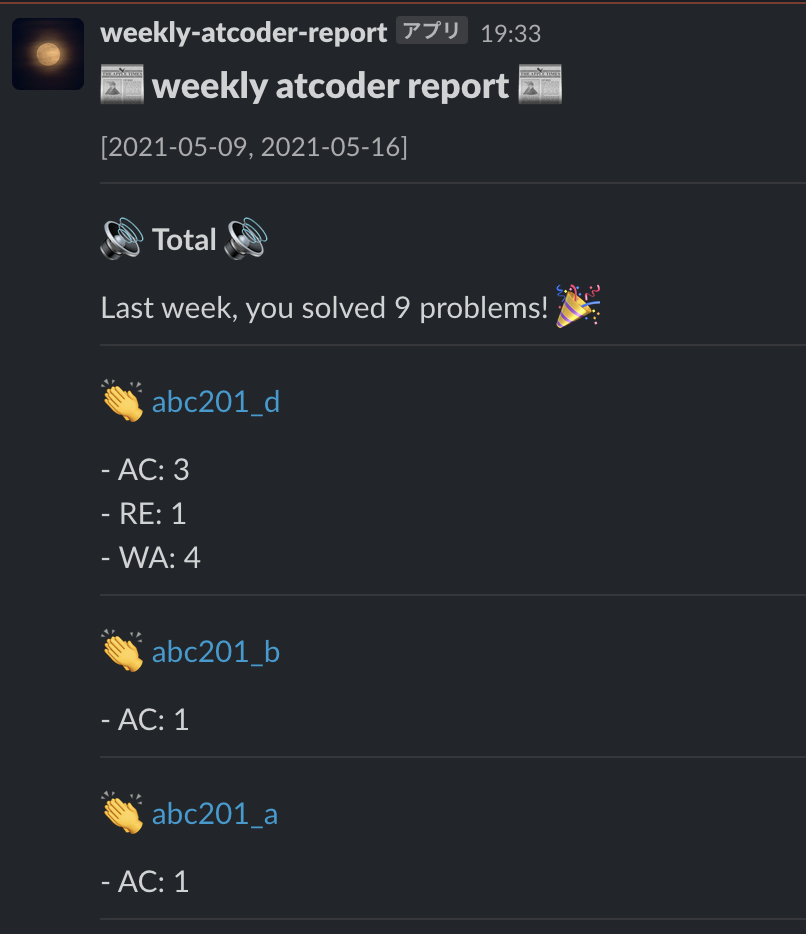
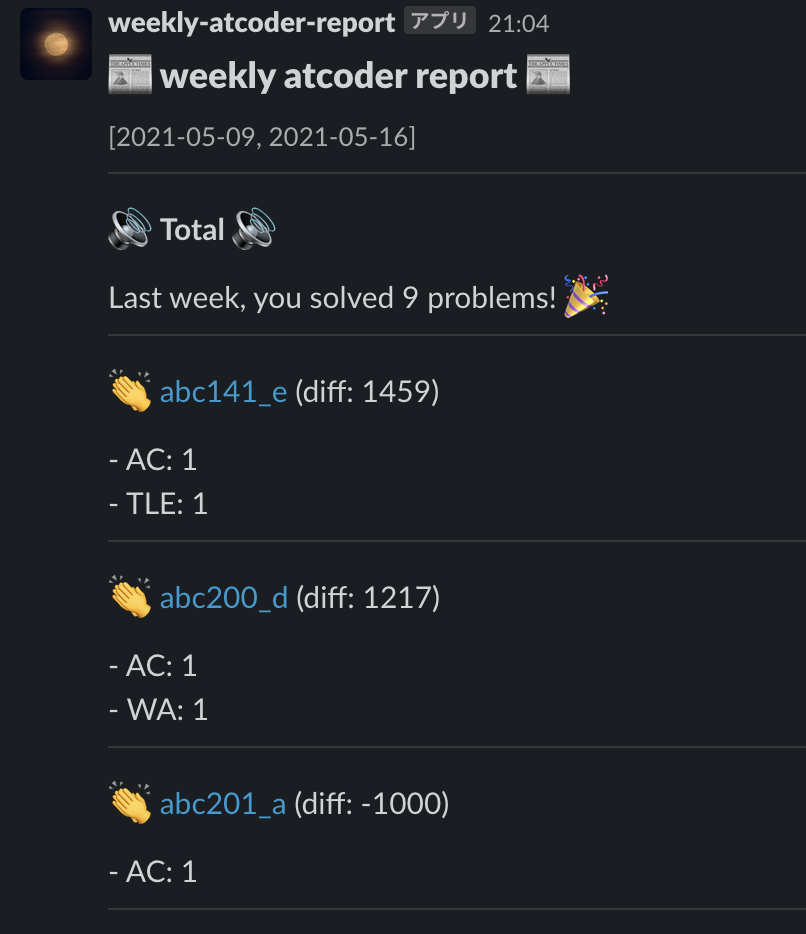
Show difficulties in each title
Since Slack mrkdwn doesn't support colored text, difficulties are printed
in a plain (black) text. It's typical with markdown format.

Note that I don't apply any calibrations to difficulties: some problems
have difficulty less than 0.

diff --git a/test/atcoder.rb b/test/atcoder.rb
@@ -24,6 +24,21 @@ class AtcoderTest < Minitest::Test
              body: '[{"id":18981759,"epoch_second":1608898346,"problem_id":"agc006_a","contest_id":"agc006","user_id":"yamm","language":"Rust (1.42.0)","point":200.0,"length":488,"result":"AC","execution_time":6},{"id":18982621,"epoch_second":1608901700,"problem_id":"agc032_a","contest_id":"agc032","user_id":"yamm","language":"Rust (1.42.0)","point":400.0,"length":609,"result":"AC","execution_time":6},{"id":16465659,"epoch_second":1599050108,"problem_id":"abc173_d","contest_id":"abc173","user_id":"yamm","language":"Rust (1.42.0)","point":0.0,"length":334,"result":"WA","execution_time":41},{"id":16465498,"epoch_second":1599049732,"problem_id":"abc173_d","contest_id":"abc173","user_id":"yamm","language":"Rust (1.42.0)","point":400.0,"length":534,"result":"AC","execution_time":39}]',
              headers: {}
            )
+
+    WebMock.stub_request(:get, 'https://kenkoooo.com/atcoder/resources/problem-models.json')
+           .with(
+             headers: {
+               'Accept' => '*/*',
+               'Accept-Encoding' => 'gzip;q=1.0,deflate;q=0.6,identity;q=0.3',
+               'Host' => 'kenkoooo.com',
+               'User-Agent' => 'rest-client/2.1.0 (darwin20 x86_64) ruby/3.0.1p64'
+             }
+           )
+           .to_return(
+             status: 200,
+             body: '{"abc053_b": {"slope": -0.0010491341272136543, "intercept": 7.286098473400458, "variance": 0.5313702359909696, "difficulty": 44, "discrimination": 0.004479398673070138, "irt_loglikelihood": -35.15041718429055, "irt_users": 248, "is_experimental": false}, "arc098_b": {"slope": -0.0011428052026327589, "intercept": 9.2169294174036, "variance": 0.47578028988922005, "difficulty": 1404, "discrimination": 0.004479398673070138, "irt_loglikelihood": -519.4895783350488, "irt_users": 1973, "is_experimental": false}, "abc114_d": {"slope": -0.0009335357745204813, "intercept": 8.865710254357056, "variance": 0.27672959617710574, "difficulty": 1337, "discrimination": 0.004479398673070138, "irt_loglikelihood": -512.0749100515103, "irt_users": 1519, "is_experimental": false}, "agc006_a": {"slope": -0.00119041627912907, "intercept": 8.65993961367503, "variance": 0.5185281607998291, "difficulty": 516, "discrimination": 0.004479398673070138, "irt_loglikelihood": -142.4160238924293, "irt_users": 602, "is_experimental": false}, "agc032_a": {"slope": -0.0007868349232453199, "intercept": 8.443982807197333, "variance": 0.40616958686525867, "difficulty": 738, "discrimination": 0.004479398673070138, "irt_loglikelihood": -1000.3774043050419, "irt_users": 1618, "is_experimental": false}, "abc173_d": {"slope": -0.0007976292014969545, "intercept": 8.11617105422058, "variance": 0.314796443743712, "difficulty": 720, "discrimination": 0.004479398673070138, "irt_loglikelihood": -4138.969331057054, "irt_users": 9693, "is_experimental": false} }',
+             headers: {}
+           )
   end
 
   def test_submissions_all
@@ -38,15 +53,28 @@ class AtcoderTest < Minitest::Test
     assert_equal 2, submissions.size
   end
 
+  def test_difficulties
+    problems = %w[abc053_b arc098_b]
+    assert_equal(
+      {
+        'abc053_b' => 44,
+        'arc098_b' => 1404
+      },
+      Atcoder.difficulties(problems)
+    )
+  end
+
   def test_make_result_hash
     submissions = Atcoder.submissions_all('yamm')
-    result_hash = Atcoder.make_result_hash(submissions)
+    difficulties = Atcoder.difficulties(submissions.map { |s| s['problem_id'] }.uniq)
+    result_hash = Atcoder.make_result_hash(submissions, difficulties)
+
     # key is "String" because API returns String
     assert_equal(
       {
-        'agc006_a' => { 'AC' => 1 },
-        'agc032_a' => { 'AC' => 1 },
-        'abc173_d' => { 'AC' => 1, 'WA' => 1 }
+        'agc006_a' => { 'AC' => 1, 'difficulty' => 516 },
+        'agc032_a' => { 'AC' => 1, 'difficulty' => 738 },
+        'abc173_d' => { 'AC' => 1, 'WA' => 1, 'difficulty' => 720 }
       },
       result_hash
     )

diff --git a/slack/slack.rb b/slack/slack.rb
@@ -56,6 +56,7 @@ module Slack
       ]
     }
 
+    results_hash = results_hash.sort
     results_hash.each do |h|
       msg[:blocks].push({ type: 'divider' })
       problem_id = h[0]
@@ -64,12 +65,12 @@ module Slack
                           type: 'section',
                           text: {
                             type: 'mrkdwn',
-                            text: ":clap: <#{problem_url} | #{problem_id}>"
+                            text: ":clap: <#{problem_url} | #{problem_id}> (diff: #{h[1]['difficulty']})"
                           }
                         })
 
       counter_array = []
-      h[1].each { |kv| counter_array.push("#{kv[0]}: #{kv[1]}") }
+      h[1].each { |kv| counter_array.push("#{kv[0]}: #{kv[1]}") unless kv[0] == 'difficulty' }
       counter_array = counter_array.sort
       results_str = ''
       counter_array.each { |c| results_str = "#{results_str}- #{c}\n" }

diff --git a/atcoder/atcoder.rb b/atcoder/atcoder.rb
@@ -15,7 +15,22 @@ module Atcoder
   end
   module_function :submissions_within
 
-  def make_result_hash(original_hash)
+  def difficulties(problem_ids)
+    difficulties = JSON.parse(RestClient.get('https://kenkoooo.com/atcoder/resources/problem-models.json'))
+
+    ret = {}
+    problem_ids.each do |pid|
+      ret[pid] = if difficulties.key?(pid)
+                   difficulties[pid]['difficulty']
+                 else
+                   0
+                 end
+    end
+    ret
+  end
+  module_function :difficulties
+
+  def make_result_hash(original_hash, difficulties)
     results_map = {}
     original_hash.each do |h|
       result = h['result']
@@ -27,6 +42,9 @@ module Atcoder
         results_map[problem_id][result] = 1
       end
     end
+
+    results_map.each { |r| results_map[r[0]]['difficulty'] = difficulties[r[0]] }
+
     results_map
   end
   module_function :make_result_hash

diff --git a/main.rb b/main.rb
@@ -12,6 +12,7 @@ today_es = Time.utc(today.year, today.month, today.day).to_i
 lastweek_es = Time.utc(lastweek.year, lastweek.month, lastweek.day).to_i
 
 shojins = Atcoder.submissions_within('yamm', lastweek_es, today_es)
-results_hash = Atcoder.make_result_hash(shojins)
+difficulties = Atcoder.difficulties(shojins.map { |s| s['problem_id'] }.uniq)
+results_hash = Atcoder.make_result_hash(shojins, difficulties)
 
 Slack.send_report(results_hash, lastweek, today)
